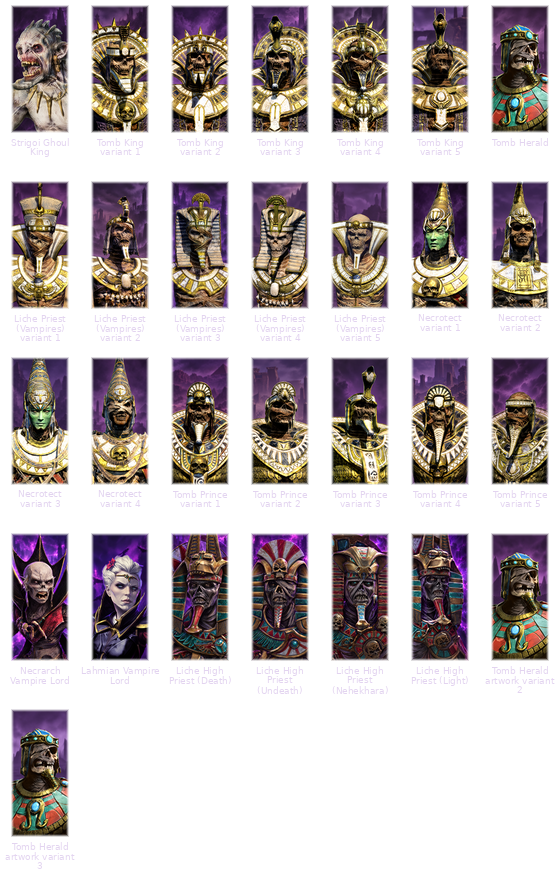
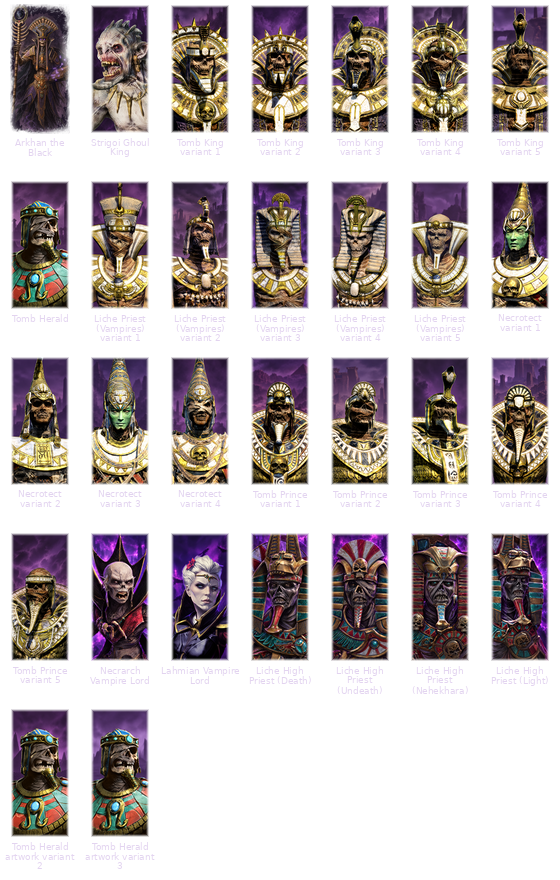
Add Arkhan the Black to README and Workshop character gallery

diff --git a/README.md b/README.md
@@ -32,9 +32,9 @@ Additional cards from the current mod include Spirit Hosts, Morghast Archai, Mor
 
 ## Lords and Heroes
 
-The current character gallery includes Tomb King variants, a Strigoi Ghoul King, Necrarch and Lahmian Vampire Lords, Liche High Priests, Liche Priests, Tomb Princes, Necrotects and the custom Tomb Herald. Variant cards represent different appearances, rather than separate hero classes.
+The current character gallery includes Arkhan the Black, Tomb King variants, a Strigoi Ghoul King, Necrarch and Lahmian Vampire Lords, Liche High Priests, Liche Priests, Tomb Princes, Necrotects and the custom Tomb Herald. Variant cards represent different appearances, rather than separate hero classes.
 
-<img src="https://raw.githubusercontent.com/Warhammer-Mods/arkhan_the_black_expanded/develop/docs/images/characters/stephen_ch_ghoul_king_campaign_01.png" alt="Strigoi Ghoul King" title="Strigoi Ghoul King" /><img src="https://raw.githubusercontent.com/Warhammer-Mods/arkhan_the_black_expanded/develop/docs/images/characters/stephen_ch_tomb_king_campaign_01_0.png" alt="Tomb King variant 1" title="Tomb King variant 1" /><img src="https://raw.githubusercontent.com/Warhammer-Mods/arkhan_the_black_expanded/develop/docs/images/characters/stephen_ch_tomb_king_campaign_02_0.png" alt="Tomb King variant 2" title="Tomb King variant 2" /><img src="https://raw.githubusercontent.com/Warhammer-Mods/arkhan_the_black_expanded/develop/docs/images/characters/stephen_ch_tomb_king_campaign_03_0.png" alt="Tomb King variant 3" title="Tomb King variant 3" /><img src="https://raw.githubusercontent.com/Warhammer-Mods/arkhan_the_black_expanded/develop/docs/images/characters/stephen_ch_tomb_king_campaign_04_0.png" alt="Tomb King variant 4" title="Tomb King variant 4" /><img src="https://raw.githubusercontent.com/Warhammer-Mods/arkhan_the_black_expanded/develop/docs/images/characters/stephen_ch_tomb_king_campaign_05_0.png" alt="Tomb King variant 5" title="Tomb King variant 5" /><img src="https://raw.githubusercontent.com/Warhammer-Mods/arkhan_the_black_expanded/develop/docs/images/characters/stephen_tmb_cha_tomb_herald.png" alt="Tomb Herald" title="Tomb Herald" /><img src="https://raw.githubusercontent.com/Warhammer-Mods/arkhan_the_black_expanded/develop/docs/images/characters/tmb_cha_liche_priest_vampire_1.png" alt="Liche Priest (Vampires) variant 1" title="Liche Priest (Vampires) variant 1" /><img src="https://raw.githubusercontent.com/Warhammer-Mods/arkhan_the_black_expanded/develop/docs/images/characters/tmb_cha_liche_priest_vampire_2.png" alt="Liche Priest (Vampires) variant 2" title="Liche Priest (Vampires) variant 2" /><img src="https://raw.githubusercontent.com/Warhammer-Mods/arkhan_the_black_expanded/develop/docs/images/characters/tmb_cha_liche_priest_vampire_3.png" alt="Liche Priest (Vampires) variant 3" title="Liche Priest (Vampires) variant 3" /><img src="https://raw.githubusercontent.com/Warhammer-Mods/arkhan_the_black_expanded/develop/docs/images/characters/tmb_cha_liche_priest_vampire_4.png" alt="Liche Priest (Vampires) variant 4" title="Liche Priest (Vampires) variant 4" /><img src="https://raw.githubusercontent.com/Warhammer-Mods/arkhan_the_black_expanded/develop/docs/images/characters/tmb_cha_liche_priest_vampire_5.png" alt="Liche Priest (Vampires) variant 5" title="Liche Priest (Vampires) variant 5" /><img src="https://raw.githubusercontent.com/Warhammer-Mods/arkhan_the_black_expanded/develop/docs/images/characters/tmb_cha_necrotect_1.png" alt="Necrotect variant 1" title="Necrotect variant 1" /><img src="https://raw.githubusercontent.com/Warhammer-Mods/arkhan_the_black_expanded/develop/docs/images/characters/tmb_cha_necrotect_2.png" alt="Necrotect variant 2" title="Necrotect variant 2" /><img src="https://raw.githubusercontent.com/Warhammer-Mods/arkhan_the_black_expanded/develop/docs/images/characters/tmb_cha_necrotect_3.png" alt="Necrotect variant 3" title="Necrotect variant 3" /><img src="https://raw.githubusercontent.com/Warhammer-Mods/arkhan_the_black_expanded/develop/docs/images/characters/tmb_cha_necrotect_4.png" alt="Necrotect variant 4" title="Necrotect variant 4" /><img src="https://raw.githubusercontent.com/Warhammer-Mods/arkhan_the_black_expanded/develop/docs/images/characters/tmb_cha_tomb_prince_1.png" alt="Tomb Prince variant 1" title="Tomb Prince variant 1" /><img src="https://raw.githubusercontent.com/Warhammer-Mods/arkhan_the_black_expanded/develop/docs/images/characters/tmb_cha_tomb_prince_2.png" alt="Tomb Prince variant 2" title="Tomb Prince variant 2" /><img src="https://raw.githubusercontent.com/Warhammer-Mods/arkhan_the_black_expanded/develop/docs/images/characters/tmb_cha_tomb_prince_3.png" alt="Tomb Prince variant 3" title="Tomb Prince variant 3" /><img src="https://raw.githubusercontent.com/Warhammer-Mods/arkhan_the_black_expanded/develop/docs/images/characters/tmb_cha_tomb_prince_4.png" alt="Tomb Prince variant 4" title="Tomb Prince variant 4" /><img src="https://raw.githubusercontent.com/Warhammer-Mods/arkhan_the_black_expanded/develop/docs/images/characters/tmb_cha_tomb_prince_5.png" alt="Tomb Prince variant 5" title="Tomb Prince variant 5" /><img src="https://raw.githubusercontent.com/Warhammer-Mods/arkhan_the_black_expanded/develop/docs/images/characters/arkhan_necrarch_vampire_lord.png" alt="Necrarch Vampire Lord" title="Necrarch Vampire Lord" /><img src="https://raw.githubusercontent.com/Warhammer-Mods/arkhan_the_black_expanded/develop/docs/images/characters/arkhan_lahmian_vampire_lord.png" alt="Lahmian Vampire Lord" title="Lahmian Vampire Lord" /><img src="https://raw.githubusercontent.com/Warhammer-Mods/arkhan_the_black_expanded/develop/docs/images/characters/arkhan_liche_high_priest_death.png" alt="Liche High Priest (Death)" title="Liche High Priest (Death)" /><img src="https://raw.githubusercontent.com/Warhammer-Mods/arkhan_the_black_expanded/develop/docs/images/characters/arkhan_liche_high_priest_undeath.png" alt="Liche High Priest (Undeath)" title="Liche High Priest (Undeath)" /><img src="https://raw.githubusercontent.com/Warhammer-Mods/arkhan_the_black_expanded/develop/docs/images/characters/arkhan_liche_high_priest_nehekhara.png" alt="Liche High Priest (Nehekhara)" title="Liche High Priest (Nehekhara)" /><img src="https://raw.githubusercontent.com/Warhammer-Mods/arkhan_the_black_expanded/develop/docs/images/characters/arkhan_liche_high_priest_light.png" alt="Liche High Priest (Light)" title="Liche High Priest (Light)" /><img src="https://raw.githubusercontent.com/Warhammer-Mods/arkhan_the_black_expanded/develop/docs/images/characters/arkhan_tomb_herald_variant_2.png" alt="Tomb Herald artwork variant 2" title="Tomb Herald artwork variant 2" /><img src="https://raw.githubusercontent.com/Warhammer-Mods/arkhan_the_black_expanded/develop/docs/images/characters/arkhan_tomb_herald_variant_3.png" alt="Tomb Herald artwork variant 3" title="Tomb Herald artwork variant 3" />
+<img src="https://raw.githubusercontent.com/Warhammer-Mods/arkhan_the_black_expanded/develop/docs/images/characters/arkhan_the_black.png" alt="Arkhan the Black" title="Arkhan the Black" /><img src="https://raw.githubusercontent.com/Warhammer-Mods/arkhan_the_black_expanded/develop/docs/images/characters/stephen_ch_ghoul_king_campaign_01.png" alt="Strigoi Ghoul King" title="Strigoi Ghoul King" /><img src="https://raw.githubusercontent.com/Warhammer-Mods/arkhan_the_black_expanded/develop/docs/images/characters/stephen_ch_tomb_king_campaign_01_0.png" alt="Tomb King variant 1" title="Tomb King variant 1" /><img src="https://raw.githubusercontent.com/Warhammer-Mods/arkhan_the_black_expanded/develop/docs/images/characters/stephen_ch_tomb_king_campaign_02_0.png" alt="Tomb King variant 2" title="Tomb King variant 2" /><img src="https://raw.githubusercontent.com/Warhammer-Mods/arkhan_the_black_expanded/develop/docs/images/characters/stephen_ch_tomb_king_campaign_03_0.png" alt="Tomb King variant 3" title="Tomb King variant 3" /><img src="https://raw.githubusercontent.com/Warhammer-Mods/arkhan_the_black_expanded/develop/docs/images/characters/stephen_ch_tomb_king_campaign_04_0.png" alt="Tomb King variant 4" title="Tomb King variant 4" /><img src="https://raw.githubusercontent.com/Warhammer-Mods/arkhan_the_black_expanded/develop/docs/images/characters/stephen_ch_tomb_king_campaign_05_0.png" alt="Tomb King variant 5" title="Tomb King variant 5" /><img src="https://raw.githubusercontent.com/Warhammer-Mods/arkhan_the_black_expanded/develop/docs/images/characters/stephen_tmb_cha_tomb_herald.png" alt="Tomb Herald" title="Tomb Herald" /><img src="https://raw.githubusercontent.com/Warhammer-Mods/arkhan_the_black_expanded/develop/docs/images/characters/tmb_cha_liche_priest_vampire_1.png" alt="Liche Priest (Vampires) variant 1" title="Liche Priest (Vampires) variant 1" /><img src="https://raw.githubusercontent.com/Warhammer-Mods/arkhan_the_black_expanded/develop/docs/images/characters/tmb_cha_liche_priest_vampire_2.png" alt="Liche Priest (Vampires) variant 2" title="Liche Priest (Vampires) variant 2" /><img src="https://raw.githubusercontent.com/Warhammer-Mods/arkhan_the_black_expanded/develop/docs/images/characters/tmb_cha_liche_priest_vampire_3.png" alt="Liche Priest (Vampires) variant 3" title="Liche Priest (Vampires) variant 3" /><img src="https://raw.githubusercontent.com/Warhammer-Mods/arkhan_the_black_expanded/develop/docs/images/characters/tmb_cha_liche_priest_vampire_4.png" alt="Liche Priest (Vampires) variant 4" title="Liche Priest (Vampires) variant 4" /><img src="https://raw.githubusercontent.com/Warhammer-Mods/arkhan_the_black_expanded/develop/docs/images/characters/tmb_cha_liche_priest_vampire_5.png" alt="Liche Priest (Vampires) variant 5" title="Liche Priest (Vampires) variant 5" /><img src="https://raw.githubusercontent.com/Warhammer-Mods/arkhan_the_black_expanded/develop/docs/images/characters/tmb_cha_necrotect_1.png" alt="Necrotect variant 1" title="Necrotect variant 1" /><img src="https://raw.githubusercontent.com/Warhammer-Mods/arkhan_the_black_expanded/develop/docs/images/characters/tmb_cha_necrotect_2.png" alt="Necrotect variant 2" title="Necrotect variant 2" /><img src="https://raw.githubusercontent.com/Warhammer-Mods/arkhan_the_black_expanded/develop/docs/images/characters/tmb_cha_necrotect_3.png" alt="Necrotect variant 3" title="Necrotect variant 3" /><img src="https://raw.githubusercontent.com/Warhammer-Mods/arkhan_the_black_expanded/develop/docs/images/characters/tmb_cha_necrotect_4.png" alt="Necrotect variant 4" title="Necrotect variant 4" /><img src="https://raw.githubusercontent.com/Warhammer-Mods/arkhan_the_black_expanded/develop/docs/images/characters/tmb_cha_tomb_prince_1.png" alt="Tomb Prince variant 1" title="Tomb Prince variant 1" /><img src="https://raw.githubusercontent.com/Warhammer-Mods/arkhan_the_black_expanded/develop/docs/images/characters/tmb_cha_tomb_prince_2.png" alt="Tomb Prince variant 2" title="Tomb Prince variant 2" /><img src="https://raw.githubusercontent.com/Warhammer-Mods/arkhan_the_black_expanded/develop/docs/images/characters/tmb_cha_tomb_prince_3.png" alt="Tomb Prince variant 3" title="Tomb Prince variant 3" /><img src="https://raw.githubusercontent.com/Warhammer-Mods/arkhan_the_black_expanded/develop/docs/images/characters/tmb_cha_tomb_prince_4.png" alt="Tomb Prince variant 4" title="Tomb Prince variant 4" /><img src="https://raw.githubusercontent.com/Warhammer-Mods/arkhan_the_black_expanded/develop/docs/images/characters/tmb_cha_tomb_prince_5.png" alt="Tomb Prince variant 5" title="Tomb Prince variant 5" /><img src="https://raw.githubusercontent.com/Warhammer-Mods/arkhan_the_black_expanded/develop/docs/images/characters/arkhan_necrarch_vampire_lord.png" alt="Necrarch Vampire Lord" title="Necrarch Vampire Lord" /><img src="https://raw.githubusercontent.com/Warhammer-Mods/arkhan_the_black_expanded/develop/docs/images/characters/arkhan_lahmian_vampire_lord.png" alt="Lahmian Vampire Lord" title="Lahmian Vampire Lord" /><img src="https://raw.githubusercontent.com/Warhammer-Mods/arkhan_the_black_expanded/develop/docs/images/characters/arkhan_liche_high_priest_death.png" alt="Liche High Priest (Death)" title="Liche High Priest (Death)" /><img src="https://raw.githubusercontent.com/Warhammer-Mods/arkhan_the_black_expanded/develop/docs/images/characters/arkhan_liche_high_priest_undeath.png" alt="Liche High Priest (Undeath)" title="Liche High Priest (Undeath)" /><img src="https://raw.githubusercontent.com/Warhammer-Mods/arkhan_the_black_expanded/develop/docs/images/characters/arkhan_liche_high_priest_nehekhara.png" alt="Liche High Priest (Nehekhara)" title="Liche High Priest (Nehekhara)" /><img src="https://raw.githubusercontent.com/Warhammer-Mods/arkhan_the_black_expanded/develop/docs/images/characters/arkhan_liche_high_priest_light.png" alt="Liche High Priest (Light)" title="Liche High Priest (Light)" /><img src="https://raw.githubusercontent.com/Warhammer-Mods/arkhan_the_black_expanded/develop/docs/images/characters/arkhan_tomb_herald_variant_2.png" alt="Tomb Herald artwork variant 2" title="Tomb Herald artwork variant 2" /><img src="https://raw.githubusercontent.com/Warhammer-Mods/arkhan_the_black_expanded/develop/docs/images/characters/arkhan_tomb_herald_variant_3.png" alt="Tomb Herald artwork variant 3" title="Tomb Herald artwork variant 3" />
 
 Additional Tomb Herald cards are included as alternative artwork; the existing in-game card assignment is retained.
 
